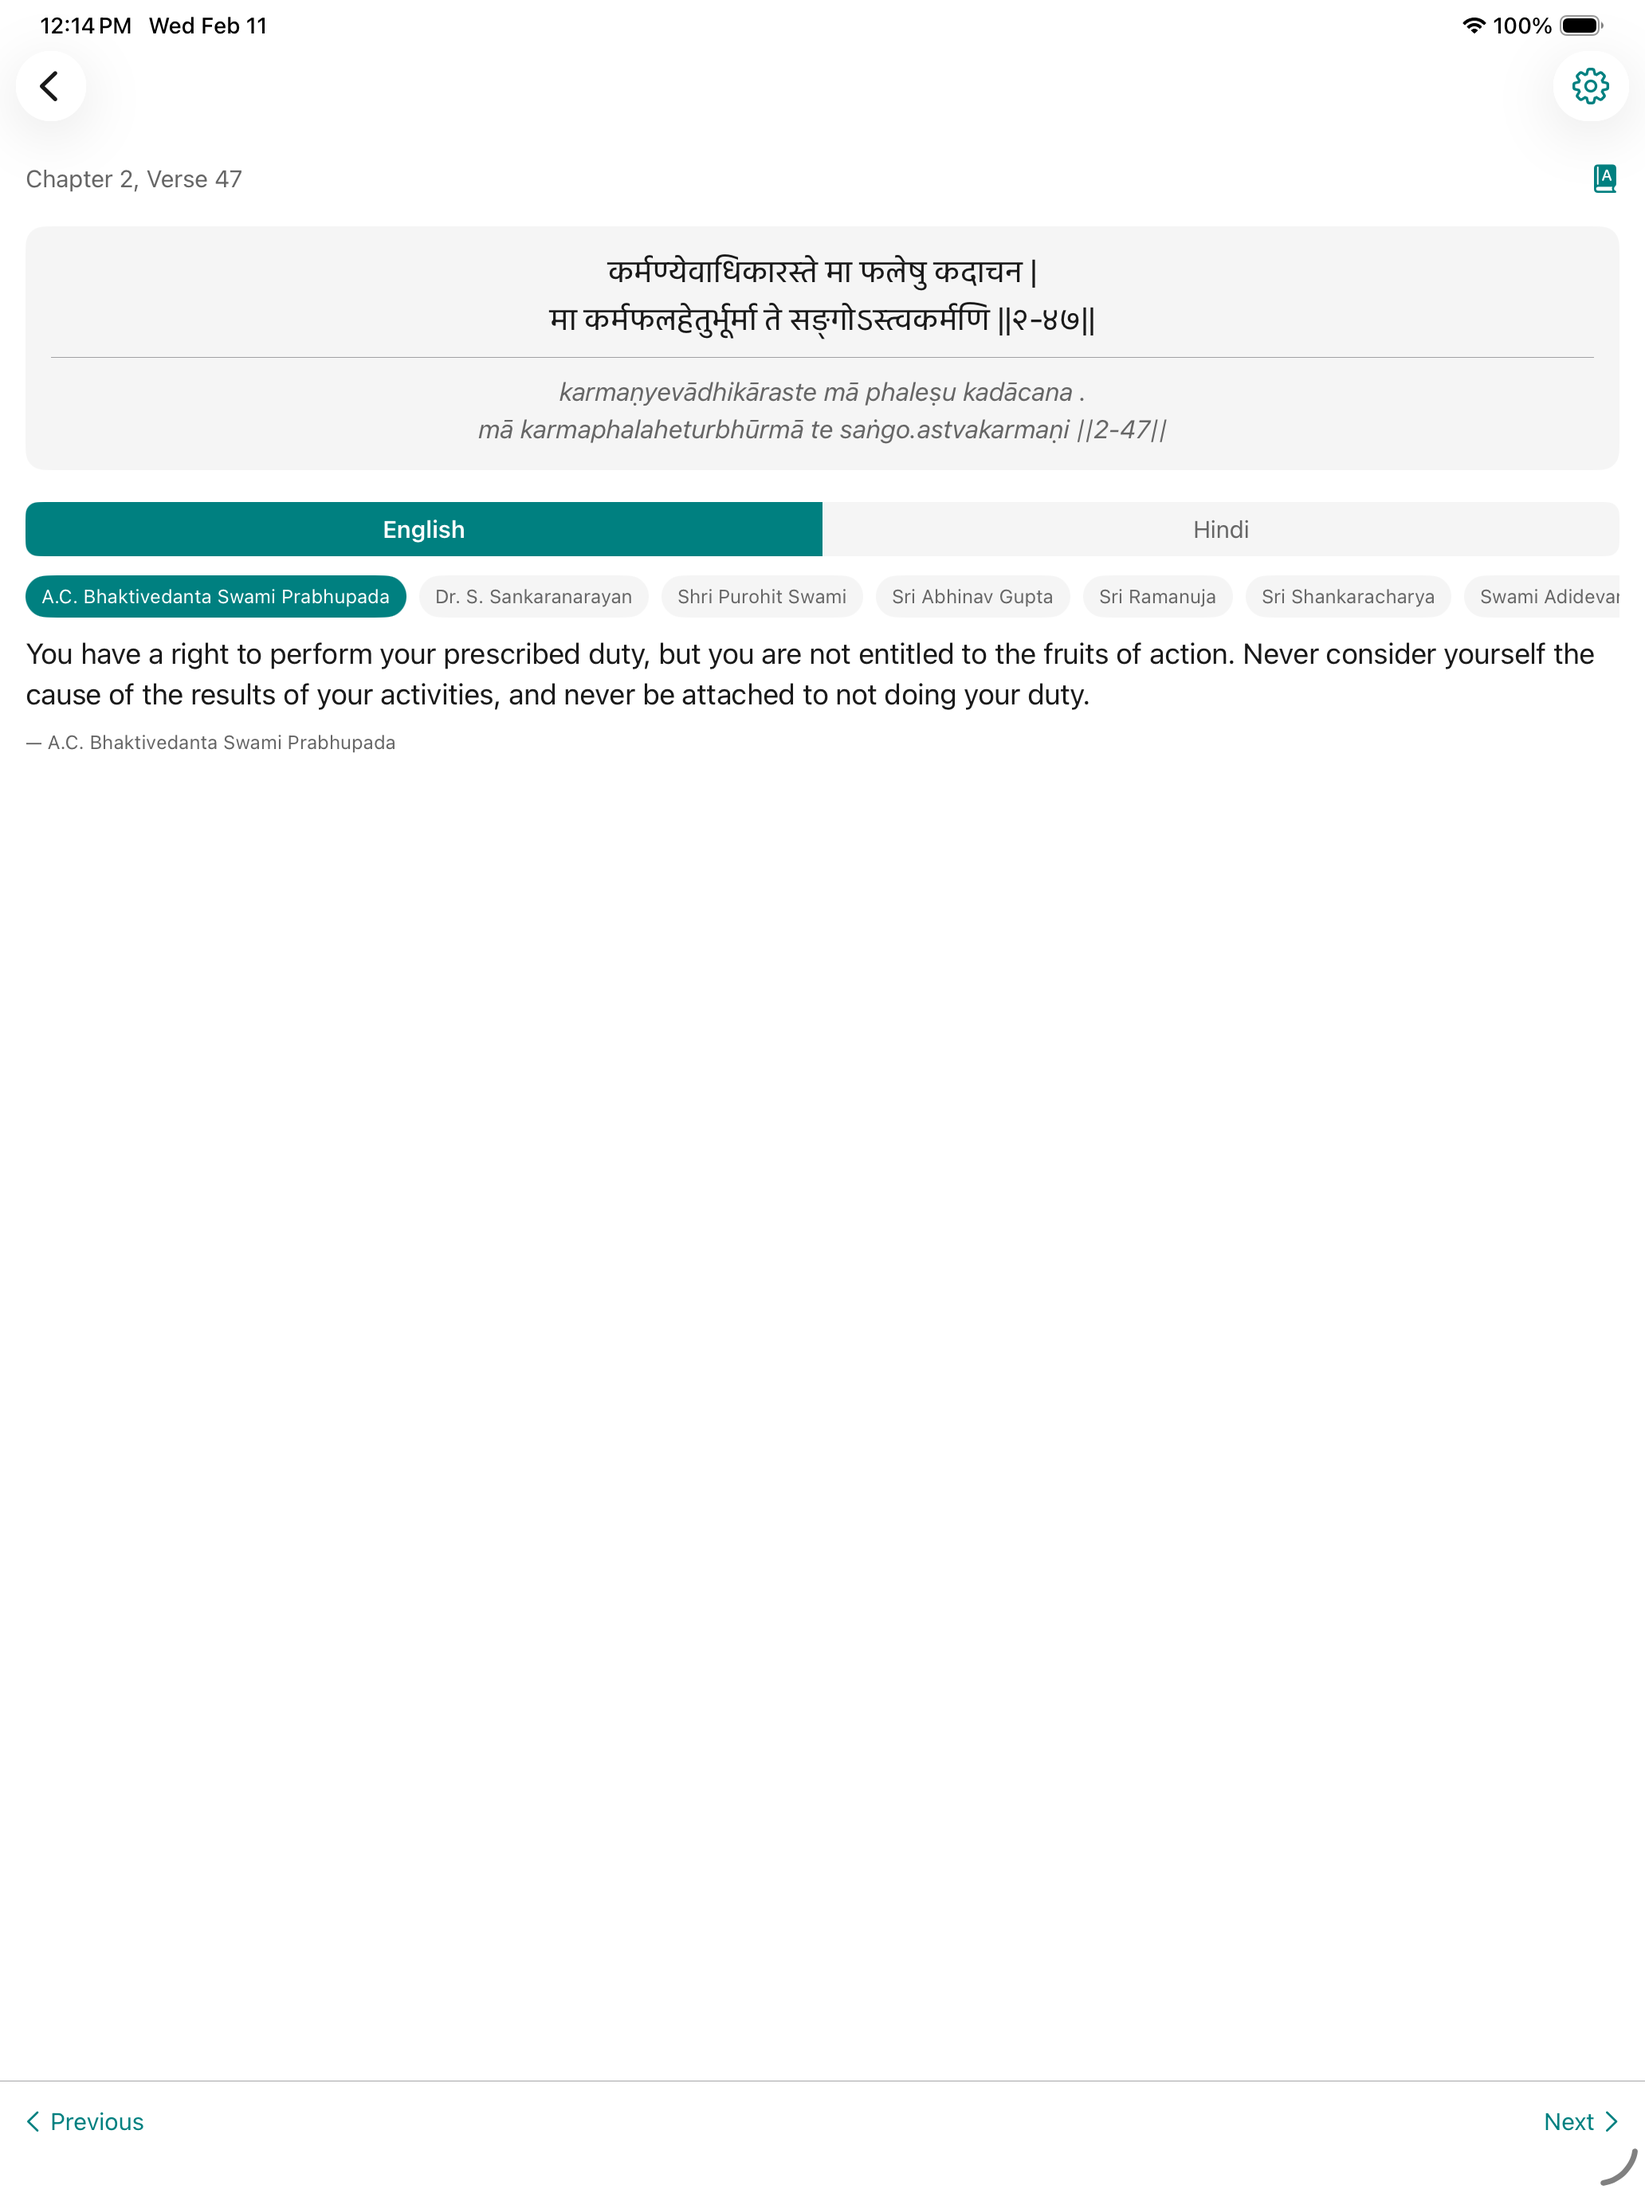
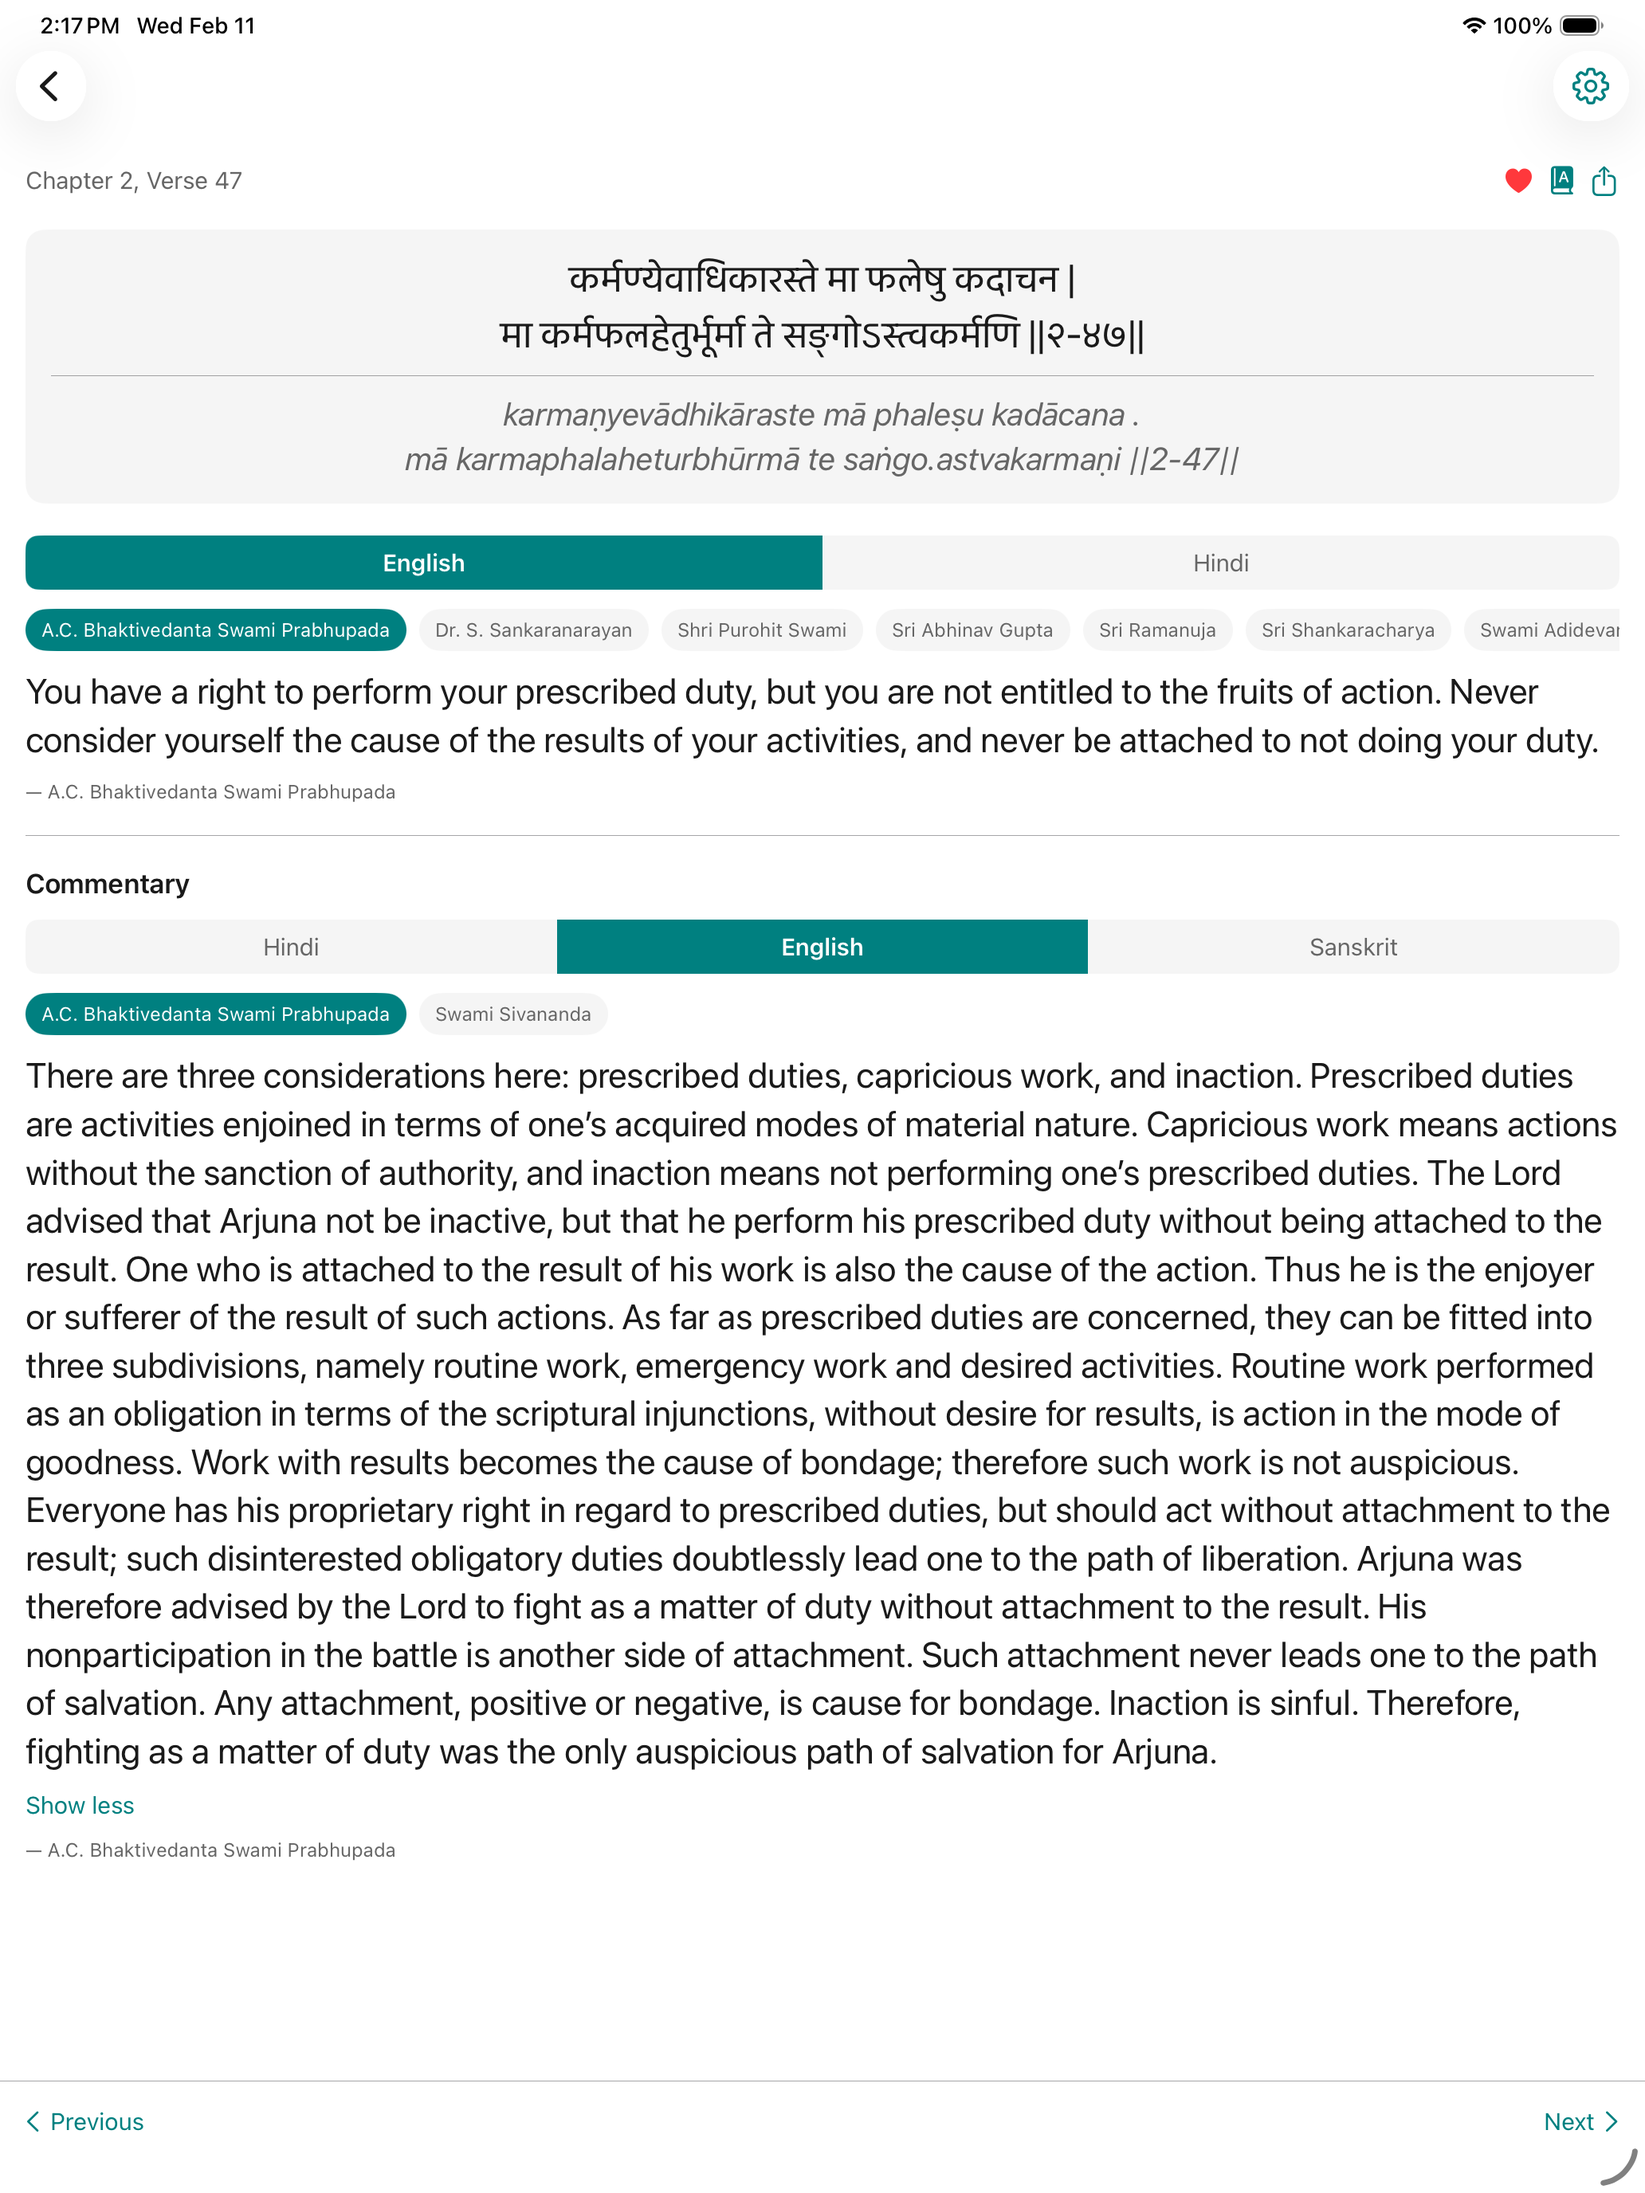
Retake App Store screenshots for V2 — 8 per device, 3 device sizes

diff --git a/CURRENT_STATE.md b/CURRENT_STATE.md
@@ -72,16 +72,15 @@ All V1 + V2 features built and tested. Waiting for Apple Developer enrollment ac
 ### What's Next
 - [x] Apple Developer Program signup ($99/year) — enrolled, pending activation
 - [x] Add privacy policy link in app About screen — done (gitavani.app/privacy)
-- [x] App Store screenshots (iPhone 6.9", 6.5", iPad 13") — 6 each, all 4 themes
+- [x] App Store screenshots (iPhone 6.9", 6.5", iPad 13") — 8 each, all V2 features + 4 themes
 - [x] App Store metadata (description, keywords, category) — saved in appstore/metadata/
+- [x] Update website landing page for V2 features
 - [ ] Developer enrollment activation (waiting for Apple email)
 - [ ] Create app in App Store Connect
 - [ ] Upload build via Xcode
 - [ ] TestFlight build for wife's testing
 - [ ] iPad layout refinements based on feedback
-- [ ] Update App Store content for V2 features (description, screenshots, website, help screen)
-- [ ] Retake screenshots to show V2 features
-- [ ] Update website and help screen for V2
+- [ ] Update help screen for V2 features
 
 ### Known Issues
 - 2 verses (BG12.3, BG12.18) have only 1 translation each — correct, other scholars did not comment

diff --git a/docs/submission_prep.md b/docs/submission_prep.md
@@ -119,7 +119,7 @@ Need to verify all 4 themes meet WCAG 4.5:1 contrast ratio. Dusk (light on dark)
 | App icon 1024x1024 | Done |
 | Privacy policy URL | Done — gitavani.app/privacy |
 | PrivacyInfo.xcprivacy | Done |
-| Screenshots (iPhone 6.9", 6.5", iPad 13") | Need retake for V2 features |
+| Screenshots (iPhone 6.9", 6.5", iPad 13") | Done — 8 per device, all V2 features |
 | App description (4000 chars max) | Done — updated for V2, in appstore/metadata/ |
 | Keywords (100 chars max) | Done — updated for V2, in appstore/metadata/ |
 | Support URL | Done — gitavani.app/support |

diff --git a/NOW.md b/NOW.md
@@ -8,8 +8,8 @@
 All features complete (V1 + V2). Docs updated. Waiting for Apple Developer enrollment activation.
 
 ### Content Updates
-1. **App Store screenshots** — retake to show V2 features (commentaries, search, favorites, share)
-2. **Website landing page** — update feature list for V2
+1. ~~**App Store screenshots**~~ — Done (8 per device × 3 devices = 24 total, all V2 features + 4 themes)
+2. ~~**Website landing page**~~ — Done (V2 features added)
 3. **Help screen** — explain commentaries, favorites, search, share
 
 ### App Store (blocked on enrollment)
